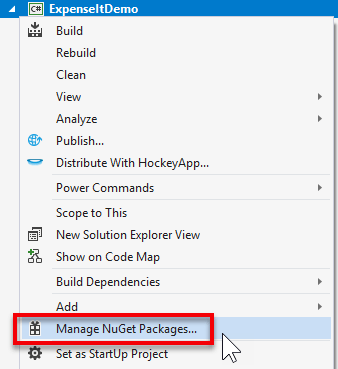
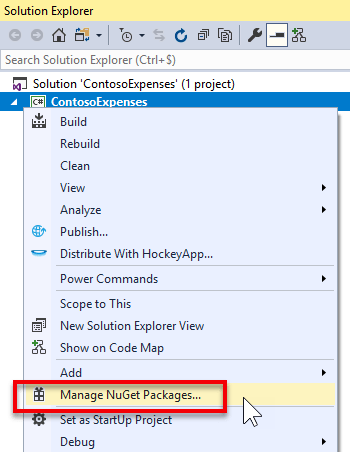
Update Ex1 Task2

diff --git a/Manual/README.md b/Manual/README.md
@@ -146,8 +146,8 @@ We need this WPF package because it takes care for us about all the necessary pi
 
 Please note that the same package exists for Windows Forms. Its name is <a href="https://www.nuget.org/packages/Microsoft.Toolkit.Forms.UI.Controls/" target="_blank">Microsoft.Toolkit.Forms.UI.Controls</a>.
 
-1.  If the ExpensIt solution is not opened in Visual Studio, double click on *"C:\XAMLIslandsLab\ExpenseIt.sln"*.
-2.  Right click on the **ExpenseIt** project in the Solution Explorer window on the left and choose **Manage NuGet Packages...**.
+1.  If the ContosoExpenses solution is not opened in Visual Studio, double click on `C:\XAMLIslandsLab\Lab\Exercise1\01-Start\ContosoExpenses\ContosoExpenses.sln`.
+2.  Right click on the **ContosoExpenses** project in the Solution Explorer window on the left and choose **Manage NuGet Packages...**.
 
     ![Manage NuGet Packages menu in Visual Studio](ManageNuGetPackages.png)
 
